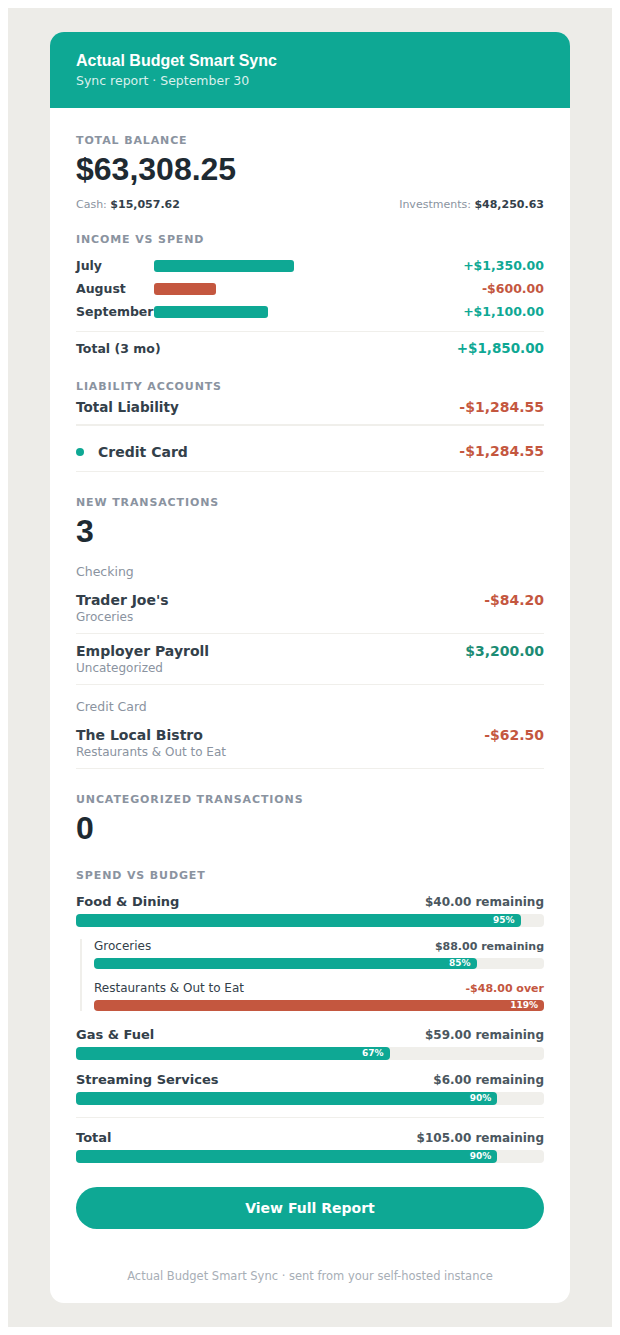
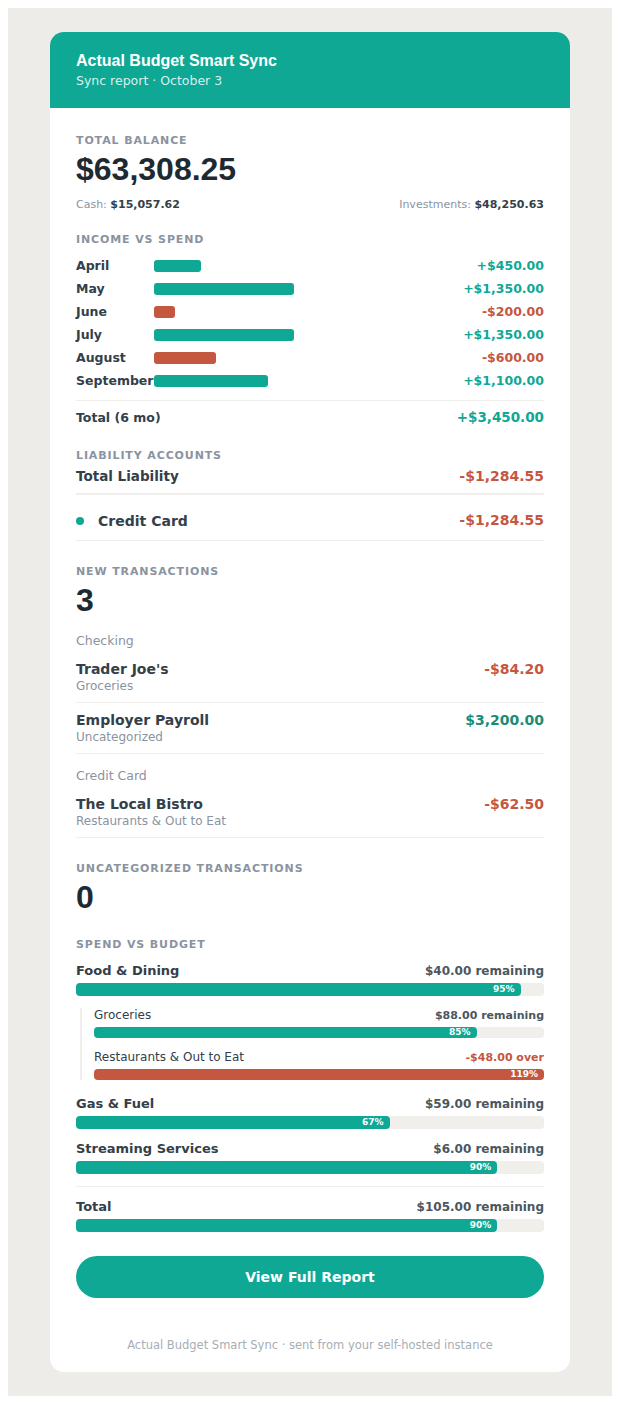
Widen the email's Income vs Spend chart to 6 months
Extends the sync email's compact Income vs Spend chart from 3 months
to 6 (same format: one net bar per month, green/red, plus an N-month
total). The renderer was already generic on the number of months, so
this is just the syncJob.js call-site window plus doc/screenshot
updates to match.

diff --git a/src/syncJob.js b/src/syncJob.js
@@ -111,7 +111,7 @@ async function syncAndReport({ isStartup = false } = {}) {
       const [budgetVsActual, uncategorizedTransactions, recentIncomeVsSpend] = await Promise.all([
         includeBudget ? actualService.getBudgetVsActual() : Promise.resolve([]),
         includeTransactions ? actualService.getUncategorizedTransactions() : Promise.resolve([]),
-        includeBalances ? actualService.getRecentIncomeVsSpend({ months: 3 }) : Promise.resolve([])
+        includeBalances ? actualService.getRecentIncomeVsSpend({ months: 6 }) : Promise.resolve([])
       ]);
       const { subject, html } = buildReportHtml({
         accounts, accountBalances, accountMap, categoryMap, added, bankSyncIssue, accountSyncErrors,

diff --git a/README.md b/README.md
@@ -19,7 +19,7 @@ This service is designed to run independently of your main Actual Budget server.
 
 ![Dashboard screenshot](https://raw.githubusercontent.com/adambeltz2/actualbudget-sync/main/docs/screenshots/dashboard.png)
 
-**Email report** — a sync summary with a Cash vs Investments balance breakdown, a compact Income vs Spend chart for the last 3 months, new transactions, uncategorized transactions, a Total Liability line, and a Spend vs Budget breakdown folded under each category group, delivered straight to your inbox. The subject line is always generic ("Actual Budget Sync: N New Transactions" or "Actual Budget Sync: Summary") so an inbox preview or lock-screen notification never reveals a connection issue before the email is opened.
+**Email report** — a sync summary with a Cash vs Investments balance breakdown, a compact Income vs Spend chart for the last 6 months, new transactions, uncategorized transactions, a Total Liability line, and a Spend vs Budget breakdown folded under each category group, delivered straight to your inbox. The subject line is always generic ("Actual Budget Sync: N New Transactions" or "Actual Budget Sync: Summary") so an inbox preview or lock-screen notification never reveals a connection issue before the email is opened.
 
 ![Email report screenshot](https://raw.githubusercontent.com/adambeltz2/actualbudget-sync/main/docs/screenshots/email-report.png)
 
